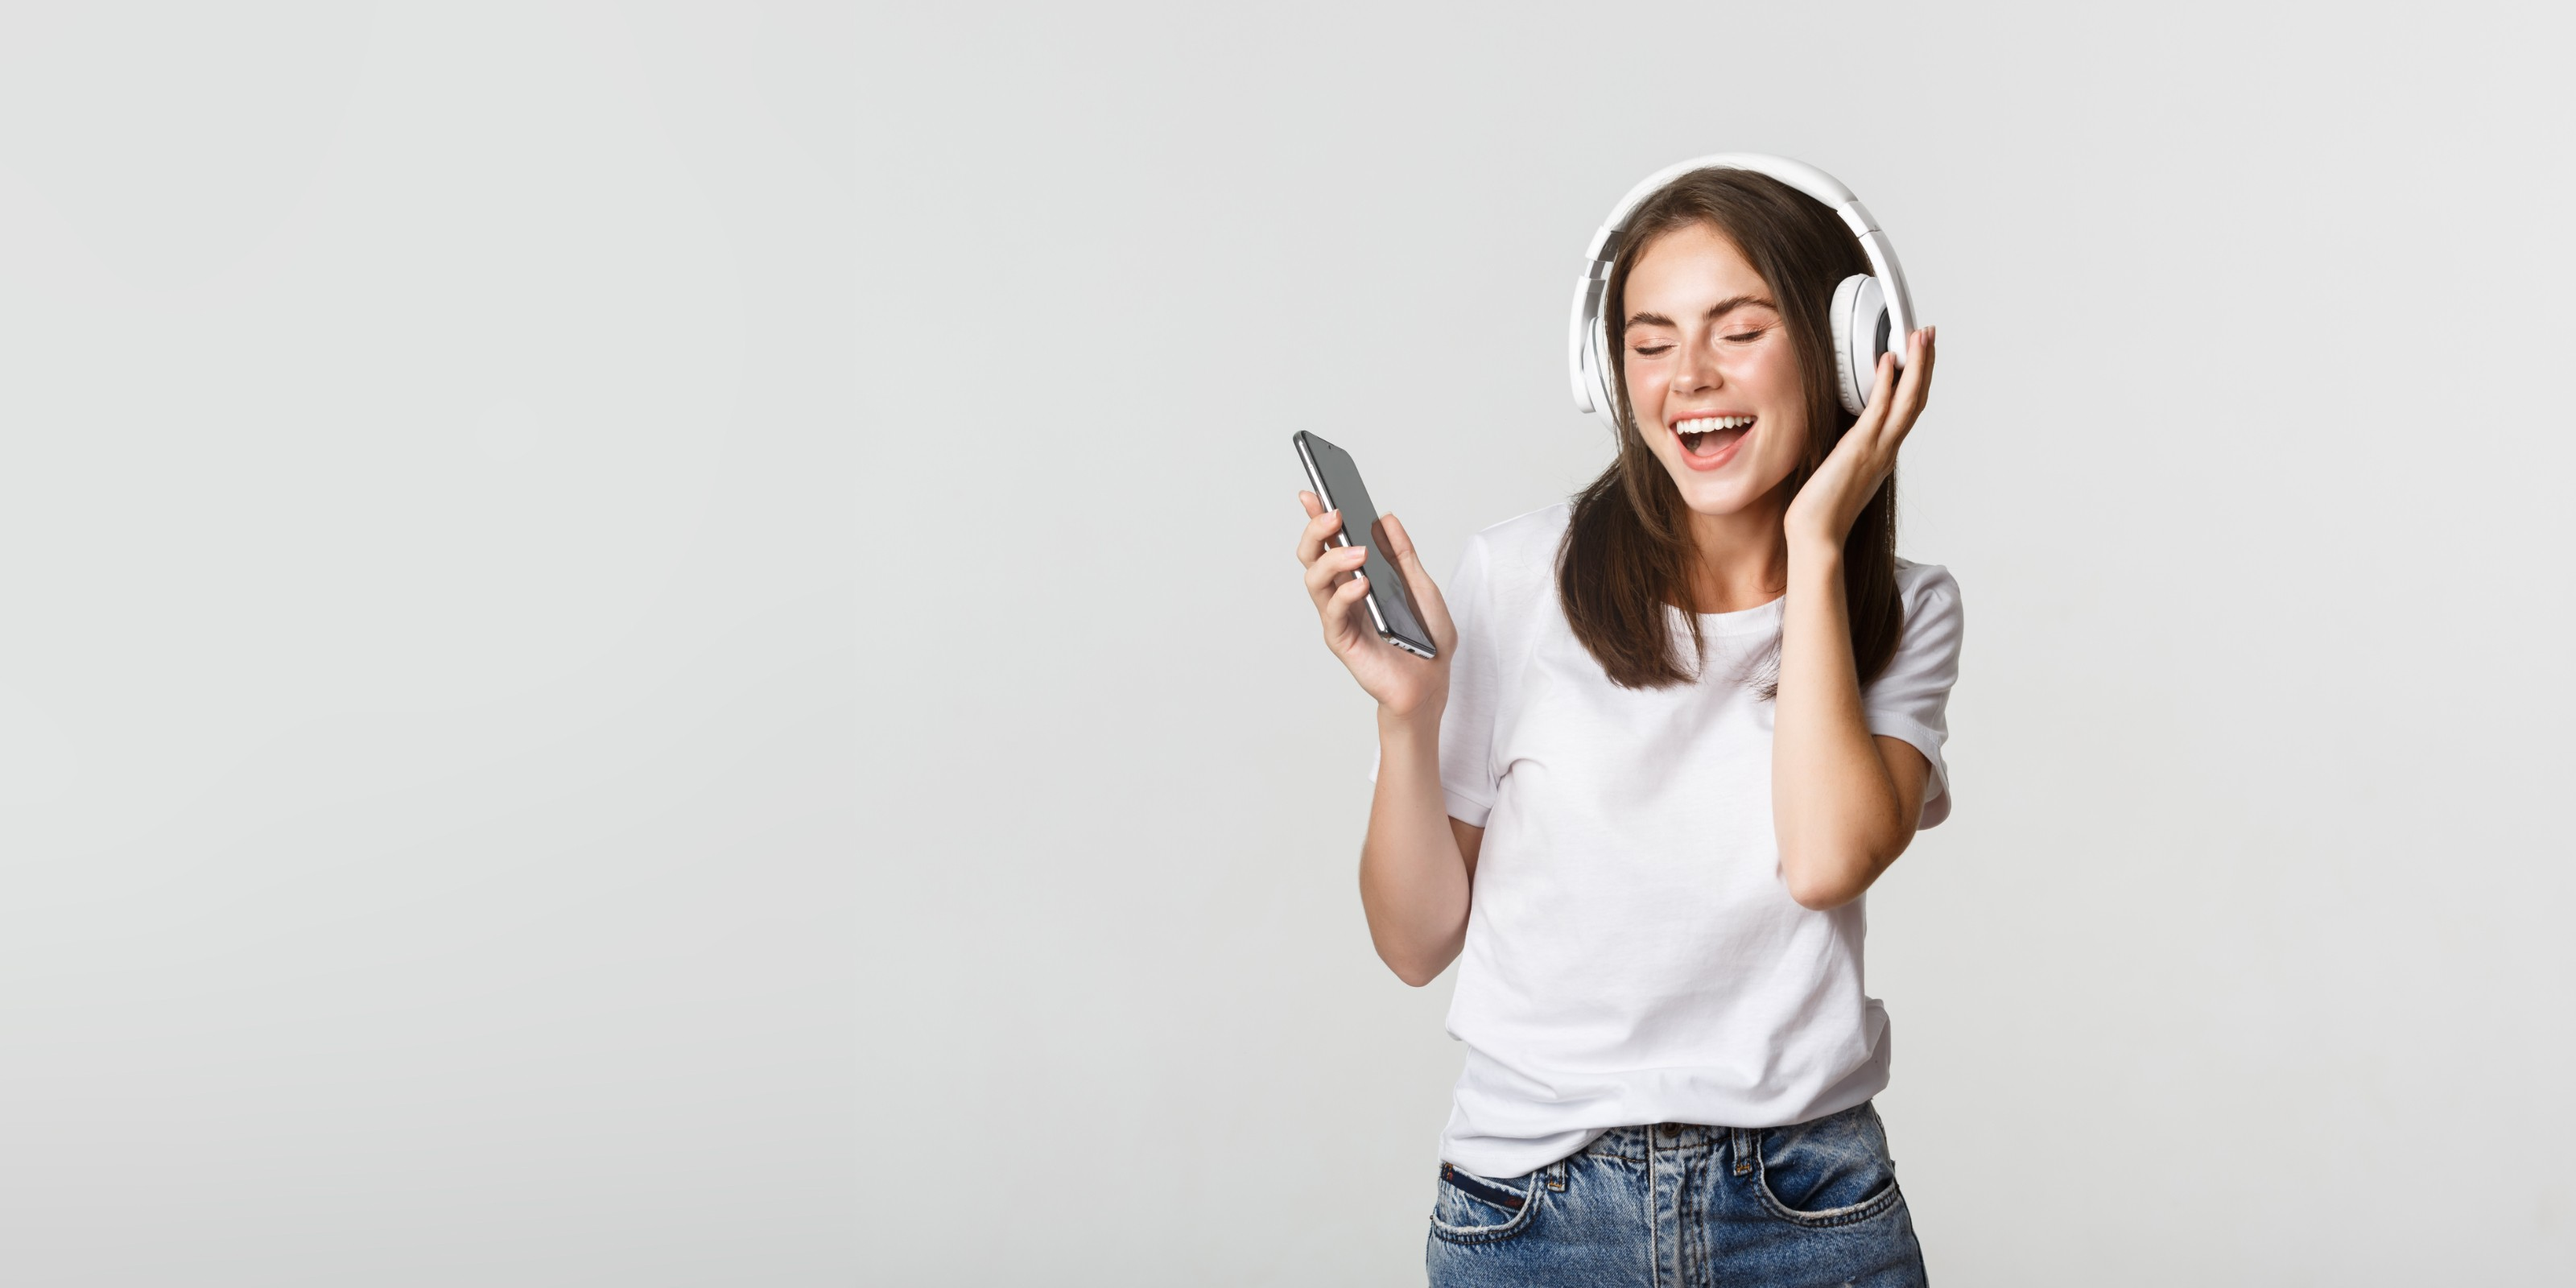
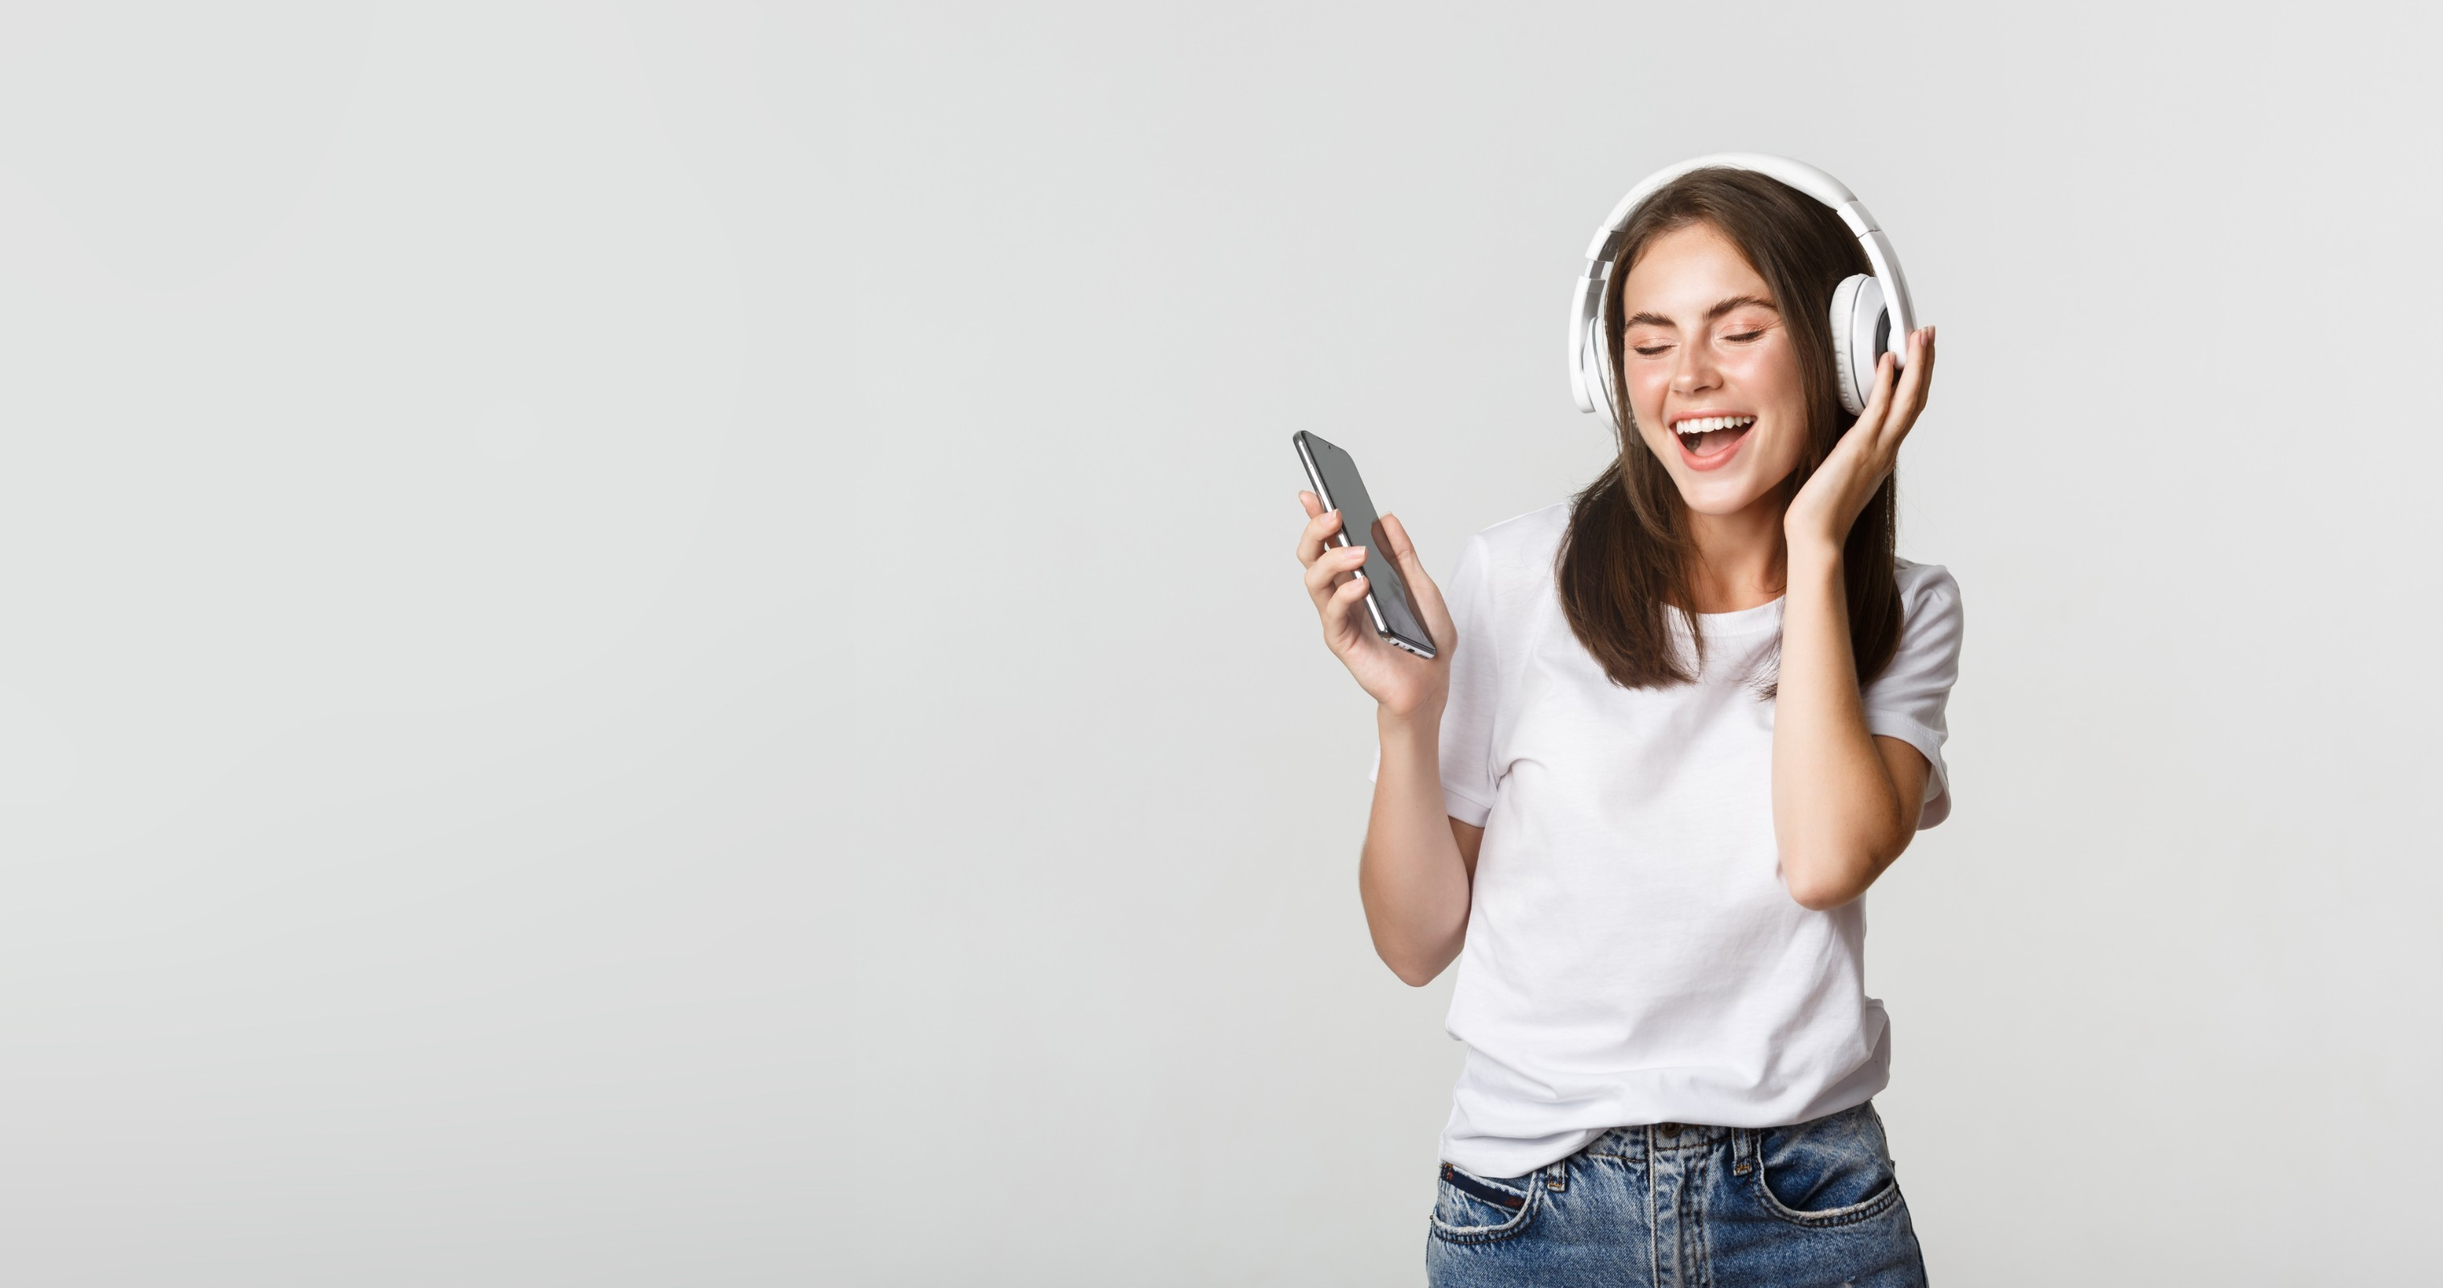
edited newsletter component
edited newsletter background

Changed region(s): [[0.4956, 0.125, 0.8053, 1.0]]

diff --git a/src/Components/Newsletter.jsx b/src/Components/Newsletter.jsx
@@ -1,6 +1,6 @@
 function Newsletter() {
   return (
-    <div className=" bg-[url('src/assets/newsletter.jpg')]  bg-cover  bg-center  bg-no-repeat" >
+    <div className="h-1/5 bg-[url('src/assets/newsletter.jpg')]  bg-cover  bg-center  bg-no-repeat  flex  flex-col  justify-center" >
 
         <div className="newsletter">
             <div className="flex flex-col items-center justify-center py-16">
